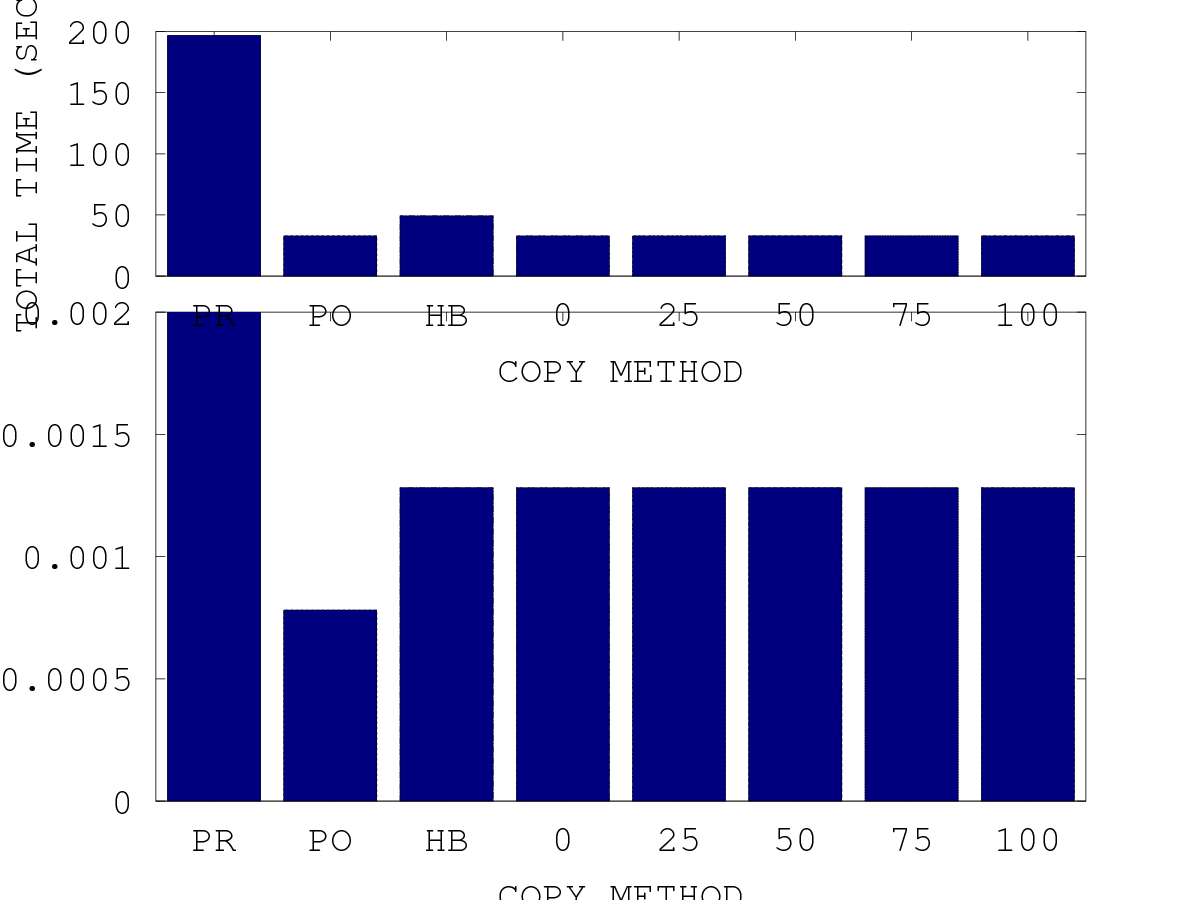
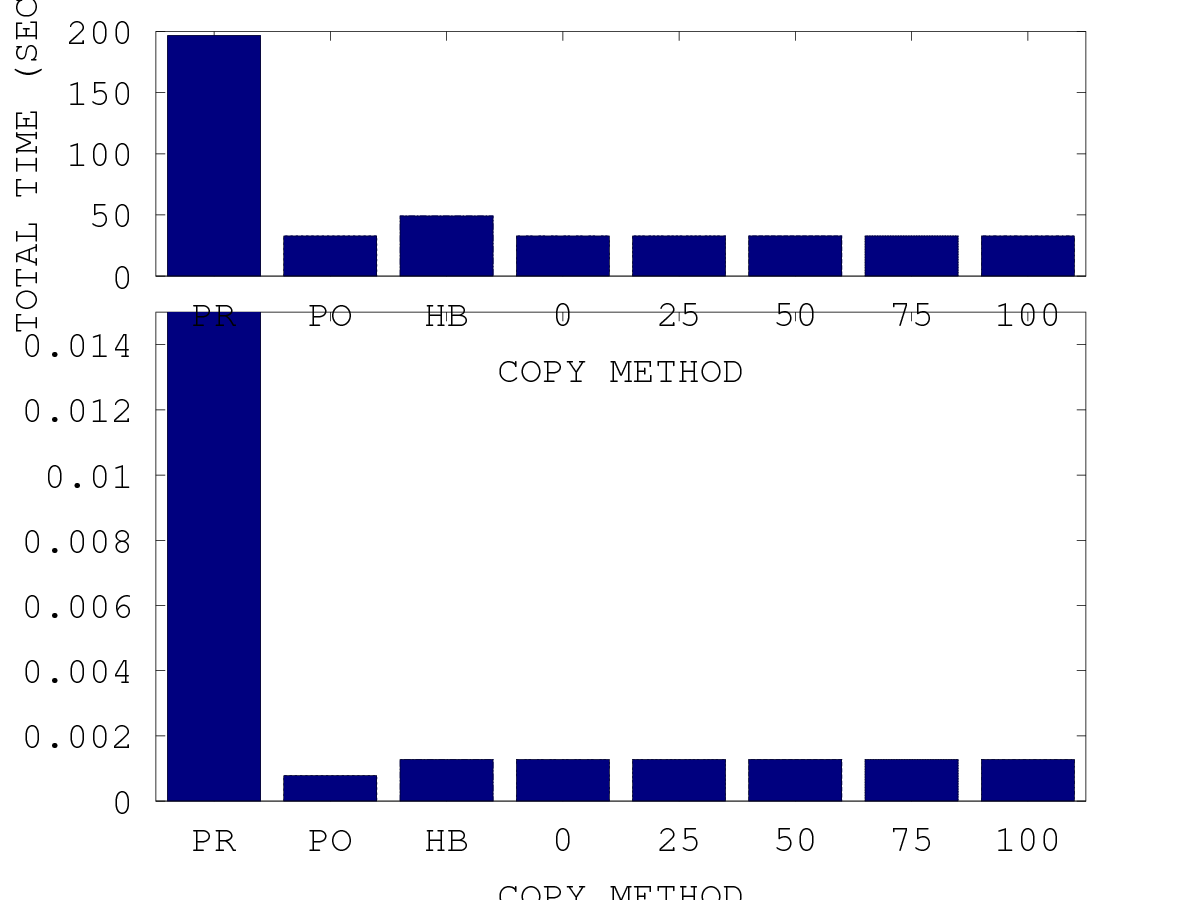
basic_break.m

diff --git a/basic_break.m b/basic_break.m
@@ -286,7 +286,7 @@ xintervals = 1:xinterval:(xinterval*length(x));
 figure;
 output = strcat(prefix, ".dt");
 
-ylim1 = [0 0.002];
+ylim1 = [0 0.015];
 ylim2 = [64 66];
 
 %cla;
